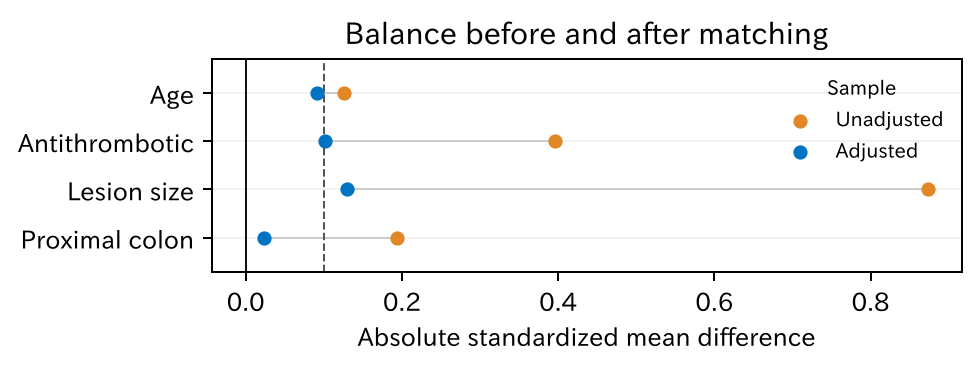
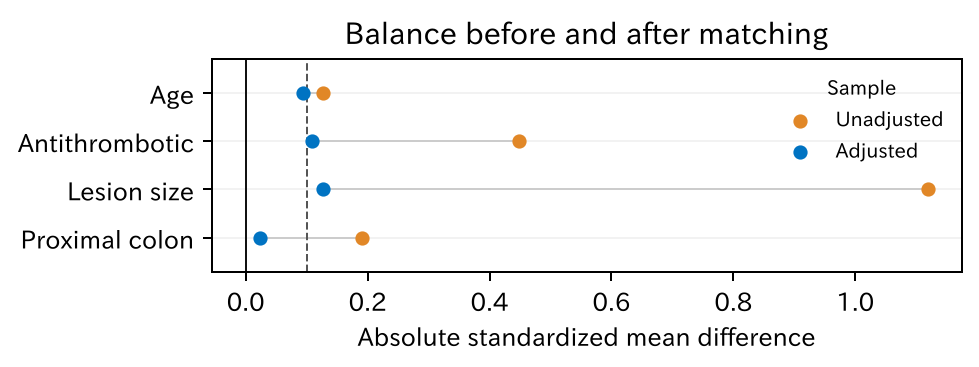
docs(theory): update SMDs to the unified definition
Claude-Session: https://claude.ai/code/session_01Lm8WF6KeUt1LhWHZNayWLc

diff --git a/docs/theory/propensity-score-matching.md b/docs/theory/propensity-score-matching.md
@@ -121,7 +121,7 @@ Austin [@Austin2011-dk] は、傾向スコアのロジットの標準偏差の 0
     write_tableone_artifacts(out, "table1_after", df=kept, params=params, hue="clip", add_smd=True)
     ```
 
-この図を **Love plot** と呼びます。マッチ前は病変径の標準化差が 0.87、抗血栓薬が 0.40 と大きくずれていました。マッチ後はほとんどが 0.1 前後になりました。病変径はまだ 0.13 残っています。その場合は、キャリパーを狭める、傾向スコアモデルに病変径の曲線（スプラインなど）を足す、20 mm 以上かどうかで完全一致させる、などを試します。
+この図を **Love plot** と呼びます。マッチ前は病変径の標準化差が 1.12、抗血栓薬が 0.45 と大きくずれていました。マッチ後はほとんどが 0.1 前後になりました。病変径はまだ 0.13 残っています。その場合は、キャリパーを狭める、傾向スコアモデルに病変径の曲線（スプラインなど）を足す、20 mm 以上かどうかで完全一致させる、などを試します。マッチ後の Table 1 は標準偏差をマッチ後の集団で計算し直すので、分母をマッチ前のまま使う Love plot と少し違う値になります（病変径は Love plot で 0.13、Table 1 で 0.15）。
 
 バランスの確認に $P$ 値は使いません。$P$ 値は例数で変わるので、ずれの大きさを表さないからです。
 
